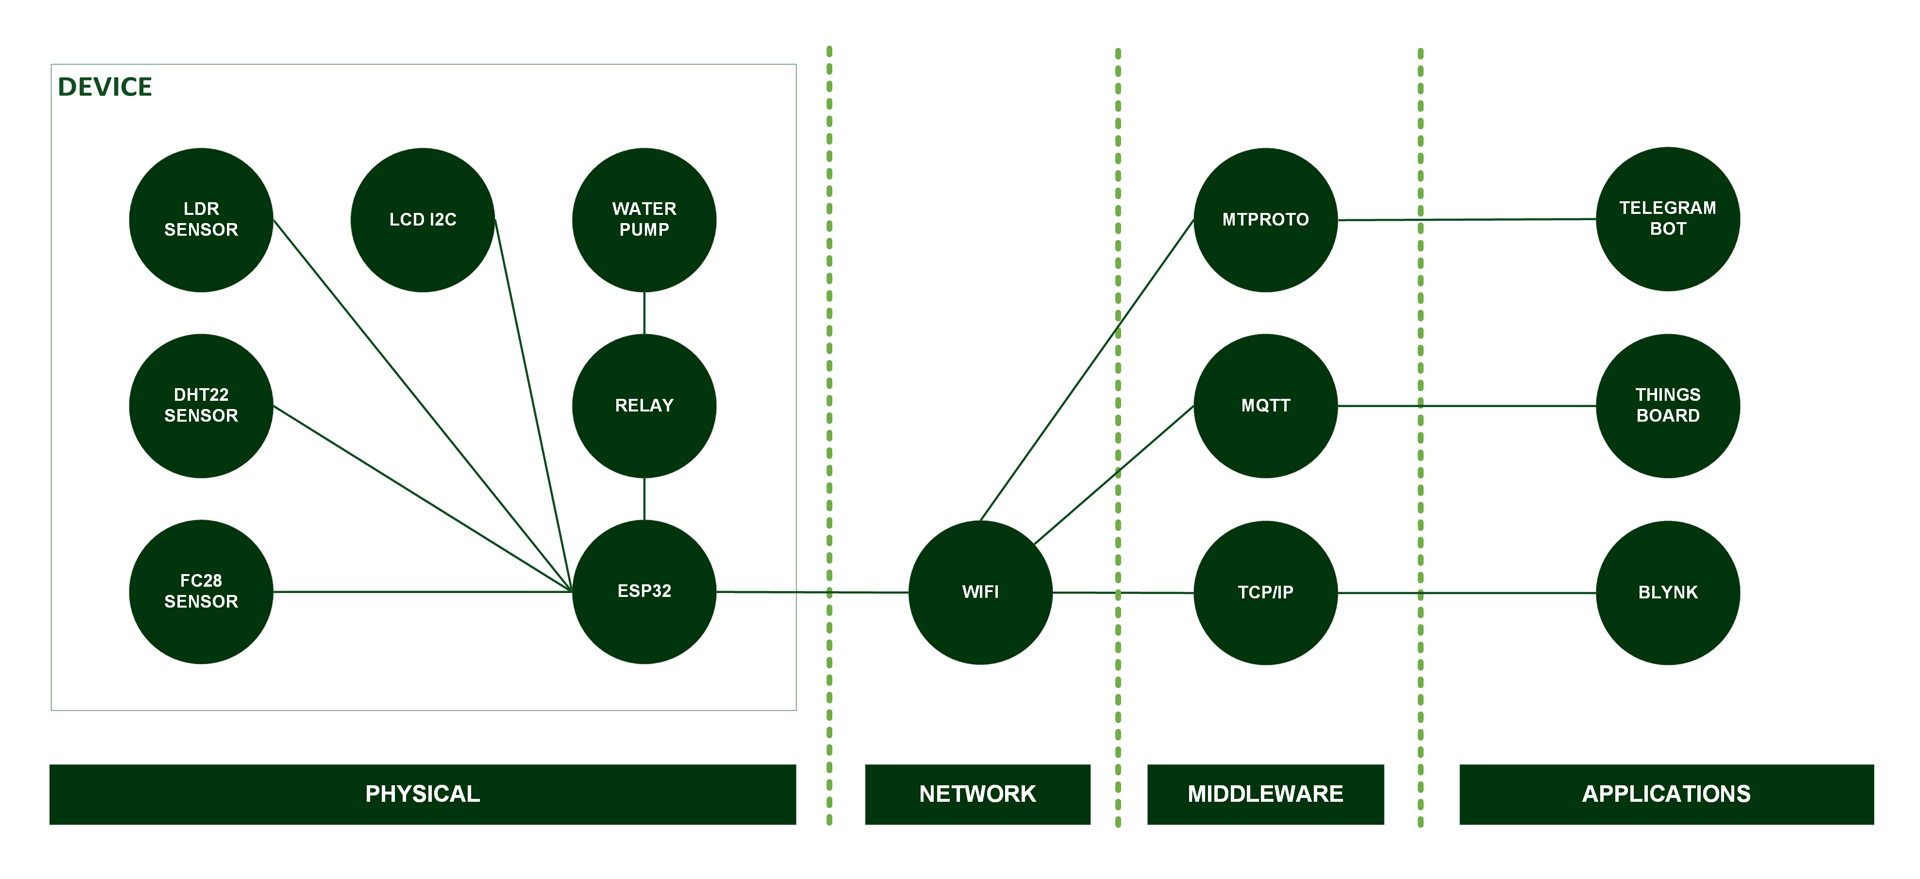
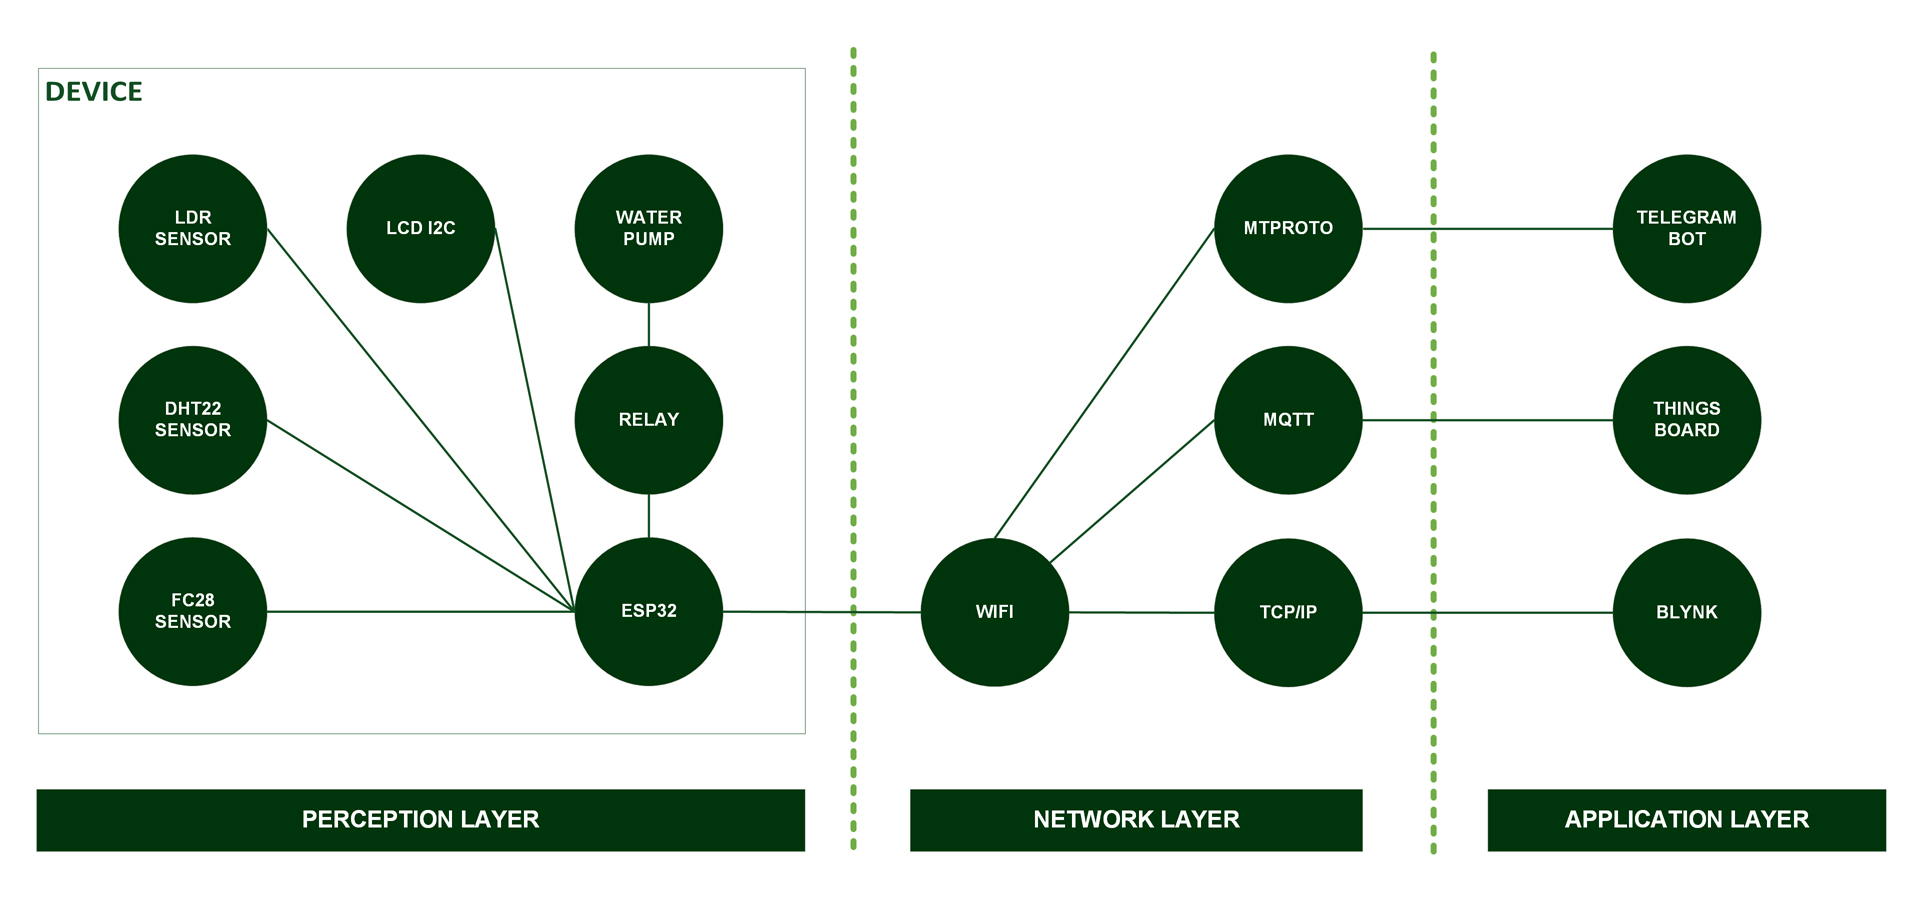
Update: 25/12/2024

diff --git a/README.md b/README.md
@@ -19,7 +19,7 @@ Echeveria Peacockii is a type of plant that is related to cactus, but there are 
 | Driver | CP210X USB Driver |
 | IoT Platform | • Blynk<br>• ThingsBoard |
 | Communications Protocol | • Inter Integrated Circuit (I2C)<br>• Message Queuing Telemetry Transport (MQTT)<br>• Transmission Control Protocol/Internet Protocol (TCP/IP)<br>• MTProto |
-| IoT Architecture | 4 Layer |
+| IoT Architecture | 3 Layer |
 | Programming Language | C/C++ |
 | Arduino Library | • WiFi (default)<br>• BlynkSimpleEsp32<br>• ThingsBoard<br>• PubSubClient<br>• CTBot<br>• ArduinoJson<br>• LiquidCrystal_I2C<br>• DHT_sensor_library<br>• ESP_FC28_Library |
 | Actuators | Submersible pump (x2) |

diff --git a/BACA.md b/BACA.md
@@ -19,7 +19,7 @@ Echeveria Peacockii merupakan jenis tanaman yang memiliki kekerabatan dengan kak
 | Driver | CP210X USB Driver |
 | Platform IoT | • Blynk<br>• ThingsBoard |
 | Protokol Komunikasi | • Inter Integrated Circuit (I2C)<br>• Message Queuing Telemetry Transport (MQTT)<br>• Transmission Control Protocol/Internet Protocol (TCP/IP)<br>• MTProto |
-| Arsitektur IoT | 4 Lapisan |
+| Arsitektur IoT | 3 Lapisan |
 | Bahasa Pemrograman | C/C++ |
 | Pustaka Arduino | • WiFi (bawaan)<br>• BlynkSimpleEsp32<br>• ThingsBoard<br>• PubSubClient<br>• CTBot<br>• ArduinoJson<br>• LiquidCrystal_I2C<br>• DHT_sensor_library<br>• ESP_FC28_Library |
 | Aktuator | Submersible pump (x2) |
